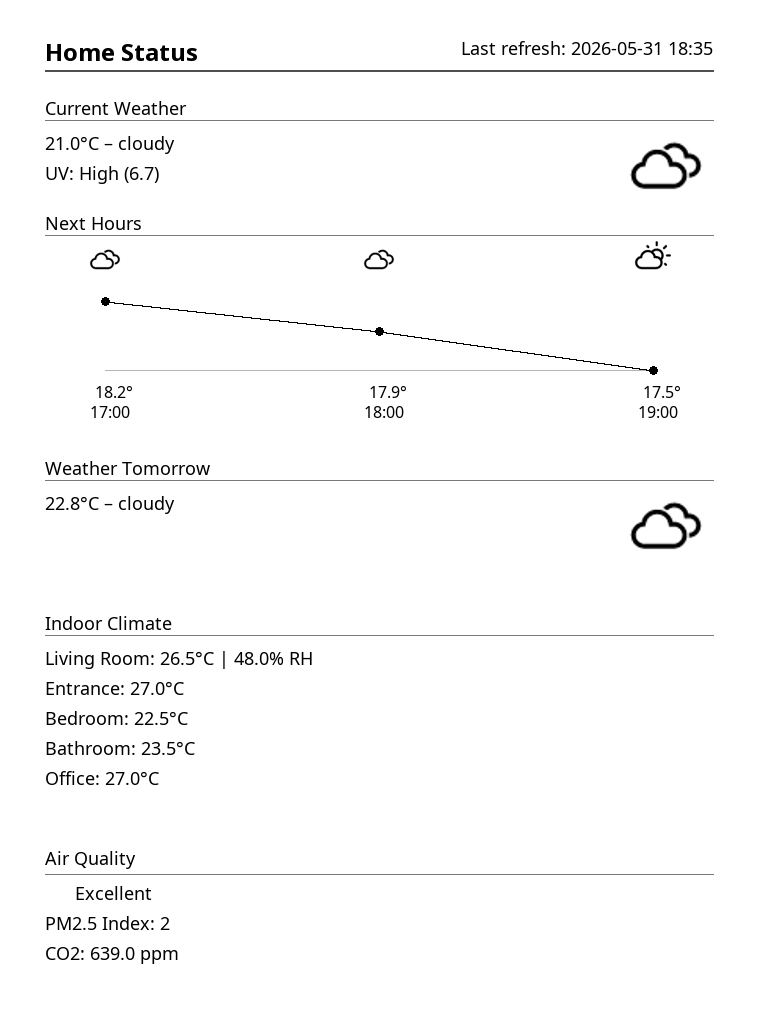
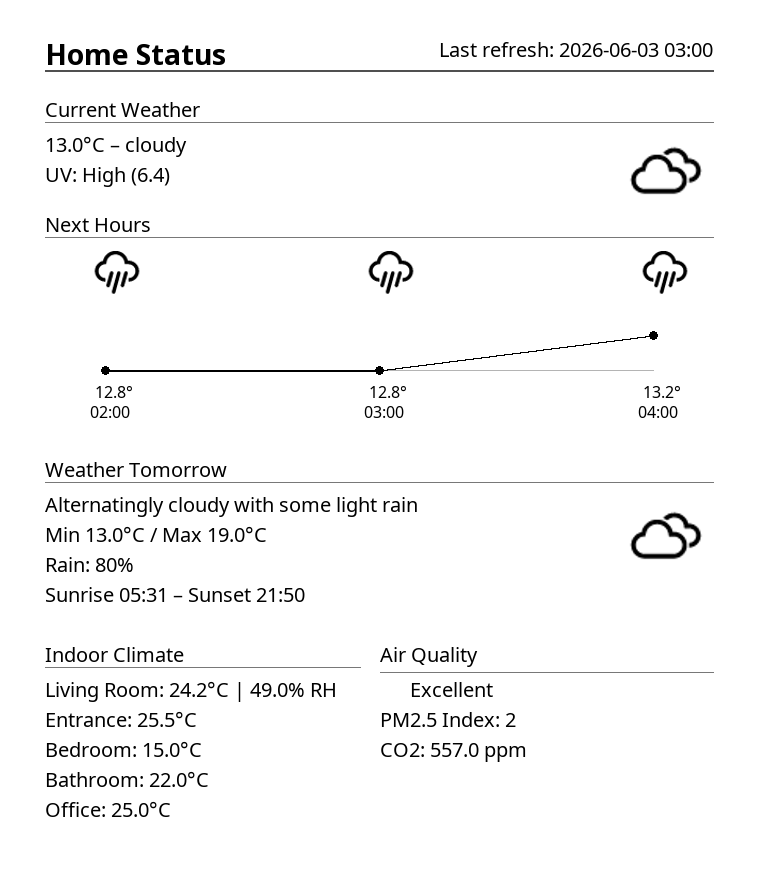
Home Status v1.1 for Kindle Paperwhite 5 (EY21) display
1st version fully tested and adapted on Amazon Kindle Paperwhite 5 2012 (EY21 model).
Several improvements brought to improve UI but also get more useful data

diff --git a/kindle_display/config-www/kindle.html b/kindle_display/config-www/kindle.html
@@ -1,0 +1,12 @@
+<!DOCTYPE html>
+<html>
+  <head>
+    <meta charset="utf-8">
+    <!-- Refresh every 15 minutes -->
+    <meta http-equiv="refresh" content="900">
+    <meta name="viewport" content="width=device-width, height=device-height, initial-scale=1.0, user-scalable=no">
+  </head>
+  <body style="margin:0;padding:0;background:white;">
+    <img src="kindle.png" style="width:100%;">
+  </body>
+</html>